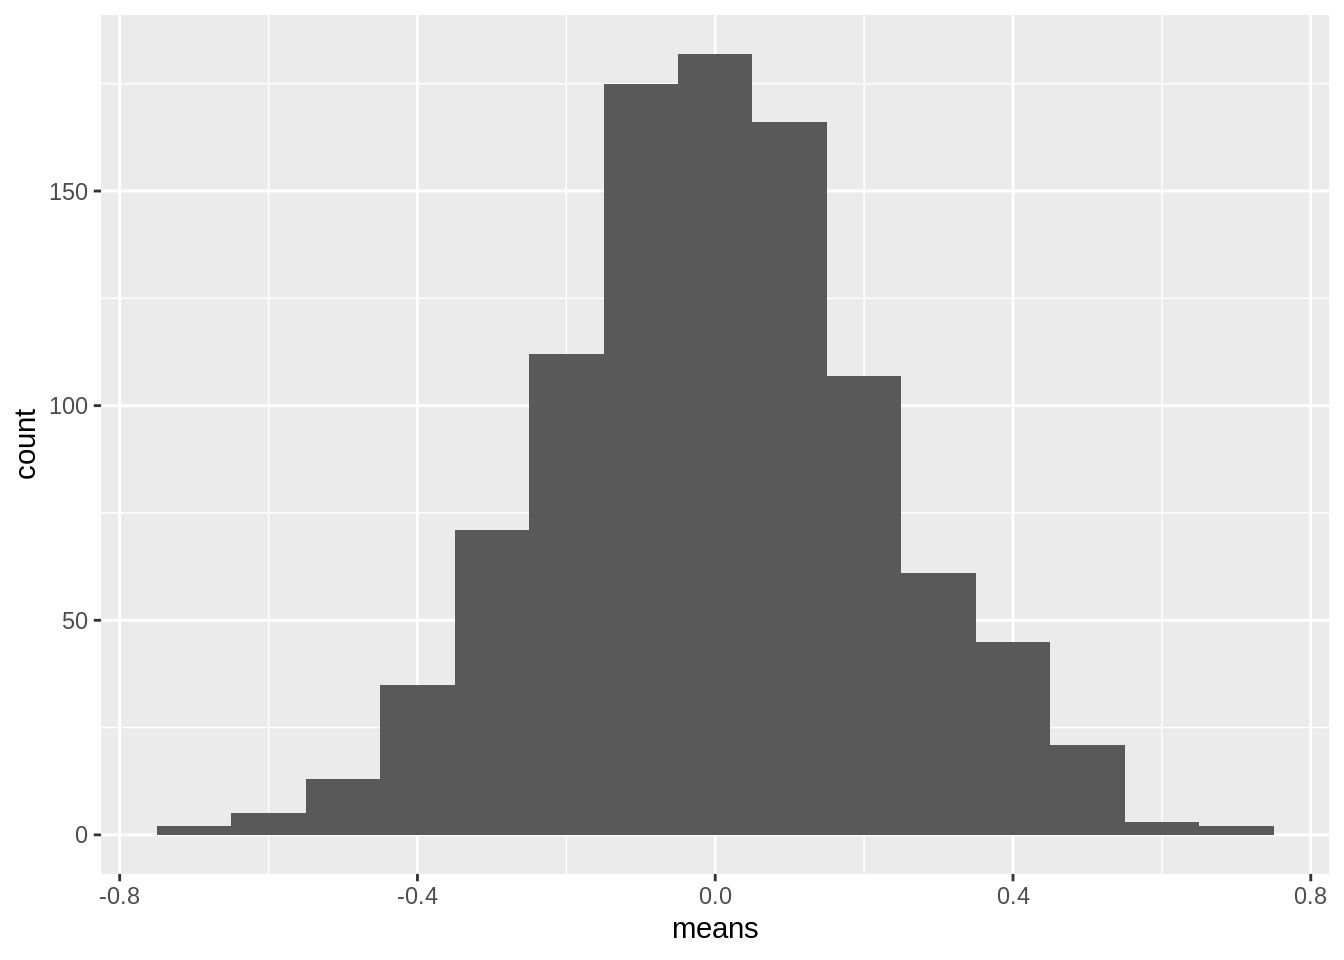
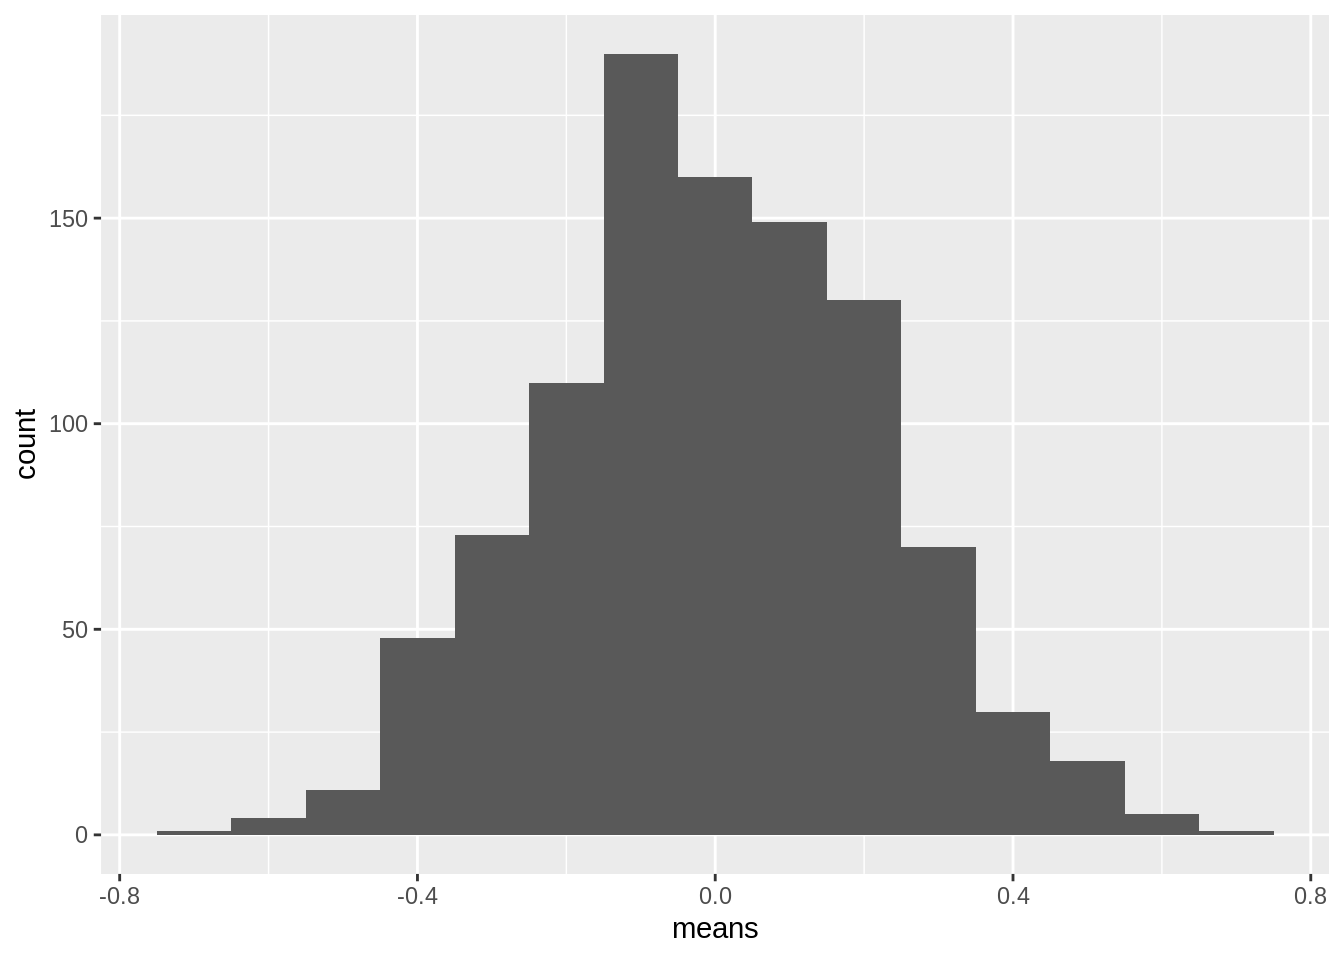
Add draft status to fdr post

diff --git a/public/post/2019-08-07-write-scientific-paper-in-markdown/index.html b/public/post/2019-08-07-write-scientific-paper-in-markdown/index.html
@@ -28,7 +28,7 @@
   
     
   
-  <meta name="description" content="Introduction If you have ever written a scientific paper in MS Word (or any other word processing software) then you&rsquo;re probably experienced frustrations like me: Word constantly crashing when loaded with too many high-resolution figures, citations getting messed up when working with others that use different citation managers, or hard to keep track of hundreds of versions of the draft, etc.
+  <meta name="description" content="Write scientific paper in markdown Introduction If you have ever written a scientific paper in MS Word (or any other word processing software) then you&rsquo;re probably experienced frustrations like me: Word constantly crashing when loaded with too many high-resolution figures, citations getting messed up when working with others that use different citation managers, or hard to keep track of hundreds of versions of the draft, etc.
 Of course, Latex is always an excellent solution to all those problems.">
 
   
@@ -138,7 +138,7 @@ Of course, Latex is always an excellent solution to all those problems.">
   <meta property="og:site_name" content="Academic">
   <meta property="og:url" content="/post/2019-08-07-write-scientific-paper-in-markdown/">
   <meta property="og:title" content="Write scientific paper in markdown | Academic">
-  <meta property="og:description" content="Introduction If you have ever written a scientific paper in MS Word (or any other word processing software) then you&rsquo;re probably experienced frustrations like me: Word constantly crashing when loaded with too many high-resolution figures, citations getting messed up when working with others that use different citation managers, or hard to keep track of hundreds of versions of the draft, etc.
+  <meta property="og:description" content="Write scientific paper in markdown Introduction If you have ever written a scientific paper in MS Word (or any other word processing software) then you&rsquo;re probably experienced frustrations like me: Word constantly crashing when loaded with too many high-resolution figures, citations getting messed up when working with others that use different citation managers, or hard to keep track of hundreds of versions of the draft, etc.
 Of course, Latex is always an excellent solution to all those problems."><meta property="og:image" content="/img/icon-192.png">
   <meta property="og:locale" content="en-us">
   
@@ -345,7 +345,7 @@ Of course, Latex is always an excellent solution to all those problems."><meta p
   
   <span class="middot-divider"></span>
   <span class="article-reading-time">
-    2 min read
+    4 min read
   </span>
   
 
@@ -426,7 +426,9 @@ Of course, Latex is always an excellent solution to all those problems."><meta p
     <div class="article-style" itemprop="articleBody">
       
 
-<h1 id="introduction">Introduction</h1>
+<h1 id="write-scientific-paper-in-markdown">Write scientific paper in markdown</h1>
+
+<h2 id="introduction">Introduction</h2>
 
 <p>If you have ever written a scientific paper in MS Word (or any other word processing software) then you&rsquo;re probably experienced frustrations like me: Word constantly crashing when loaded with too many high-resolution figures, citations getting messed up when working with others that use different citation managers, or hard to keep track of hundreds of versions of the draft, etc.</p>
 
@@ -436,13 +438,110 @@ Of course, Latex is always an excellent solution to all those problems."><meta p
 
 <p>That led me to think: markdown is a fantastic format that is both intuitive and powerful. Why not write in markdown? After a short search, I&rsquo;m happy to report that this is indeed possible!</p>
 
-<h1 id="what-does-writing-a-scientific-paper-require">What does writing a scientific paper require?</h1>
+<h2 id="what-does-writing-a-scientific-paper-require">What does writing a scientific paper require?</h2>
 
 <p>Content aside, to write a scientific paper efficiently, one needs at least the following elements:</p>
 
 <ol>
-<li>Easy way to insert and manage</li>
+<li>Easy way to insert and manage citations.</li>
+<li>Easy way to insert and manage high resolution figures</li>
+<li>Easy way to format tables</li>
+<li>Can be converted to other formats (pdf, html, etc)</li>
+<li>Allows collaborative writing</li>
 </ol>
+
+<p>Atom is an excellent text editor that with packages can do almost all of the above!</p>
+
+<h2 id="required-software-and-packages">Required software and packages</h2>
+
+<ul>
+<li><p><a href="https://atom.io/" target="_blank">Atom</a></p>
+
+<ul>
+<li><a href="https://atom.io/packages/markdown-preview-enhanced" target="_blank">markdown-preview-enhanced</a></li>
+<li><a href="https://atom.io/packages/zotero-citations" target="_blank">zotero-citations</a></li>
+</ul></li>
+
+<li><p><a href="https://pandoc.org/" target="_blank">Pandoc</a></p></li>
+
+<li><p><a href="https://www.latex-project.org/get/" target="_blank">A Tex distribution for your OS</a> (I used Tex Live for my linux system)</p></li>
+
+<li><p><a href="https://www.zotero.org/" target="_blank">Zotero citation manager</a></p>
+
+<ul>
+<li><a href="https://retorque.re/zotero-better-bibtex/installation/" target="_blank">Bbibtex Add-on</a></li>
+</ul></li>
+</ul>
+
+<p>Once you have all required packages installed, it&rsquo;s time to start writing!</p>
+
+<h2 id="write-a-paper">Write a paper</h2>
+
+<p>Writing a paper in markdown is as easy as it sounds: use <code>#</code> for titles and subtitles, use <code>|</code> to format a table, among other things.</p>
+
+<h3 id="write-math-equations">Write math equations</h3>
+
+<p>You can use Latex syntax to write a math equation, like so:</p>
+
+<pre><code>$f_A^2+2f_Af_B+f_B^2=1$
+</code></pre>
+
+<p>$f_A^2+2f_Af_B+f_B^2=1$</p>
+
+<h3 id="import-figures">Import figures:</h3>
+
+<p>The way you would import a figure is a little different from the standard markdown way:</p>
+
+<pre><code>@import &quot;figure.png&quot;
+</code></pre>
+
+<p>Would import the figure at current location. You can even further configure the figure like so:</p>
+
+<pre><code>@import &quot;figure.png&quot; {width=&quot;300px&quot; height=&quot;200px&quot; title=&quot;my title&quot; alt=&quot;my alt&quot;}
+</code></pre>
+
+<h3 id="insert-citations">Insert citations:</h3>
+
+<p>In order to insert a citation, you need to have zotero open. With zotero open, you can call up zotero citation picker by either pressing <code>ctrl</code> + <code>alt</code> + <code>P</code> or pressing <code>ctrl</code> + <code>shift</code> + <code>P</code> to call up the command palate and search for &ldquo;zotero citations: pick&rdquo;. In the citation picker window like below: <img src="/img/zotero_picker.png" alt="" /></p>
+
+<p>type in the reference you wish to insert and hit <code>enter</code>. A string of citation key should appear in your document:</p>
+
+<pre><code>@bryoisEvaluationChromatinAccessibility2018
+</code></pre>
+
+<p>Surround this reference key with <code>[]</code> and you&rsquo;re good to go! Once you export this document to a pdf, word, or html format, the reference will be automatically appended to the end of your document and the ref key will be replaced with corresponding references, like so: <img src="/img/citation_eg.png" alt="" /></p>
+
+<p>To add multiple citations, use <code>;</code> to separate ref keys, like so:</p>
+
+<pre><code>[@bintuSuperresolutionChromatinTracing2018; @bryoisEvaluationChromatinAccessibility2018]
+</code></pre>
+
+<p>Lastly, in order for pandoc to render citations correctly, you must provide a <code>bib</code> file that contains all your citations and their corresponding ref keys.</p>
+
+<p>To do this, head on to zotero and click <code>File</code> -&gt; <code>Export library</code>, in the format section, choose <code>Better Bibtex</code>. If you want the exported library up to date with your zotero library, check <code>Keep updated</code>. Once you have the exported library, add yaml frontmatter to the beginning of your document, like so:</p>
+
+<pre><code>---
+bibliography: My Library.bib
+---
+</code></pre>
+
+<h3 id="export-to-other-formats">Export to other formats</h3>
+
+<p>With pandoc, you can easily convert the markdown format to other text formats like pdf, word, and tex. To do this, first add <code>output: word_document</code> to your document&rsquo;s frontmatter, like so:</p>
+
+<pre><code>---
+bibliography: My Library.bib
+output: word_document
+---
+</code></pre>
+
+<p>and then you can right clock on the preview panel on the right to export the document through pandoc: <img src="/img/pandoc_right_click.png" alt="" /> This will output your document to a Word document. To output to PDF, simple change the value of <code>output</code> in frontmatter to <code>pdf_document</code>.</p>
+
+<h3 id="conclusion">Conclusion</h3>
+
+<p>Markdown is an incredibly intuitive text format and yet still versatile and powerful enough for productive writing. It has recently surged to new favorite of many among developers, scientists, and journalists. It will certainly keep raising in popularity due to its friendliness and expandability.</p>
+
+<p>Writing a scientific document in markdown has freed me of many frustrations caused by Word and with incredible <code>pandoc</code>, I never have to wrestle with any of my collaborators over which text editor we are to use. It has been a life saver!</p>
 
     </div>
 

diff --git a/public/post/fdr-correction/index.html b/public/post/fdr-correction/index.html
@@ -345,7 +345,7 @@ An example - Are you being cheated? Imagine that you’re playing a game where t
   
   <span class="middot-divider"></span>
   <span class="article-reading-time">
-    4 min read
+    5 min read
   </span>
   
 
@@ -455,10 +455,10 @@ An example - Are you being cheated? Imagine that you’re playing a game where t
 <p>In the coin flip example, if we record 1 everytime we get a head and -1 everytime we get a tail, after many times of flips, we would expect to get a mean score of 0. Let’s simulate this process in R:</p>
 <pre class="r"><code>flips = sample(c(-1,1), 20, replace = TRUE, prob = c(0.5, 0.5))
 flips</code></pre>
-<pre><code>##  [1]  1  1  1 -1  1 -1  1 -1 -1 -1 -1 -1  1  1 -1  1 -1 -1 -1  1</code></pre>
+<pre><code>##  [1] -1 -1  1 -1 -1 -1 -1  1 -1 -1 -1 -1  1  1 -1  1  1 -1 -1 -1</code></pre>
 <p>In the above code, by setting <code>prob=c(0.5, 0.5)</code>, we’re saying this is a fair coin. Now let’s see what the mean we got from this simulation is:</p>
 <pre class="r"><code>mean(flips)</code></pre>
-<pre><code>## [1] -0.1</code></pre>
+<pre><code>## [1] -0.4</code></pre>
 <p>It’s not 0 as we expected it to be, even though we know we’re flipping a fair coin!
 Now you probably know this is normal - The probability of getting 9 heads out of 20 flips is <span class="math inline">\(P_{9/20}=C_{20}^9(\frac{1}{2})^9(\frac{1}{2})^{11}=16%\)</span>, not a very low chance at all! This is called sampling variablity.</p>
 <p>Therefore, just because observed data isn’t identical to our expected data, doesn’t mean we should reject our null hypothesis. Now how can we make this decision then?</p>
@@ -470,7 +470,7 @@ for (i in c(1:1000))
 }
 ggplot(data.frame(means)) + geom_histogram(aes(x=means), binwidth = 0.1)</code></pre>
 <p><img src="/post/2019-07-11-fdr-correction_files/figure-html/unnamed-chunk-4-1.png" width="672" /></p>
-<p>It looks like a normal distribution (sort of)! This tells us that if we do the same experiment over and over again, the mean should be follow a normal distribution and the majority of results should be near where the mean of this normal distribution (<span class="math inline">\(\mu=0\)</span>) is. Is it possible that we get a mean of 0.6 from a fair coin? <strong>Yes, possible but not likely!</strong></p>
+<p>It looks like a normal distribution (sort of)! This tells us that if we do the same experiment over and over again, the mean should follow a normal distribution and the majority of results should be near where the mean of this normal distribution (<span class="math inline">\(\mu=0\)</span>) is. Is it possible that we get a mean of 0.6 from a fair coin? <strong>Yes, possible but not likely!</strong></p>
 <p>Of course, in reality we normally only run an experiment once and therefore, won’t get a distribution of means. But intuitively, we know if our mean is too far away from the center of this normal distribution, our true mean is probably not 0!</p>
 <p>In practice, we compare our sample mean to a <em>t</em>-distribution. This is because our sample size is relatively small (20 flips) and there is some deviation from normal distribution when we calculate mean based on a small sample size. The shape of a <em>t</em>-distribution depends on sample size, or degree of freedom (df):</p>
 <pre class="r"><code>x &lt;- seq(-4, 4, length=100)
@@ -490,6 +490,22 @@ for (i in 1:4){
 legend(&quot;topright&quot;, inset=.05, title=&quot;Distributions&quot;,
   labels, lwd=2, lty=c(1, 1, 1, 1, 2), col=colors)</code></pre>
 <p><img src="/post/2019-07-11-fdr-correction_files/figure-html/unnamed-chunk-5-1.png" width="672" /></p>
+<p>For our data from coin flips, we can perform a t-test, with the null hypothesis being that the true mean is zero:</p>
+<pre class="r"><code>t.test(flips, mu = 0)</code></pre>
+<pre><code>## 
+##  One Sample t-test
+## 
+## data:  flips
+## t = -1.9024, df = 19, p-value = 0.07239
+## alternative hypothesis: true mean is not equal to 0
+## 95 percent confidence interval:
+##  -0.8400855  0.0400855
+## sample estimates:
+## mean of x 
+##      -0.4</code></pre>
+<p>In the above output, we can see the result of the t-test: the p-value is 1. This means that if we assume null hypothesis (<span class="math inline">\(\mu=0\)</span>), we can expect to see our data or more extreme with a probability of 1. This is as high as it gets, meaning we are very confident that we have a fair coin (as we know).</p>
+<p>Now what if the coin is slightly unbalanced?
+Let’s say</p>
 </div>
 </div>
 

diff --git a/content/post/2019-07-11-fdr-correction.html b/content/post/2019-07-11-fdr-correction.html
@@ -12,6 +12,7 @@ tags:
 image:
   caption: ''
   focal_point: ''
+draft: true
 ---
 
 
@@ -33,10 +34,10 @@ image:
 <p>In the coin flip example, if we record 1 everytime we get a head and -1 everytime we get a tail, after many times of flips, we would expect to get a mean score of 0. Let’s simulate this process in R:</p>
 <pre class="r"><code>flips = sample(c(-1,1), 20, replace = TRUE, prob = c(0.5, 0.5))
 flips</code></pre>
-<pre><code>##  [1]  1  1  1 -1  1 -1  1 -1 -1 -1 -1 -1  1  1 -1  1 -1 -1 -1  1</code></pre>
+<pre><code>##  [1] -1 -1  1 -1 -1 -1 -1  1 -1 -1 -1 -1  1  1 -1  1  1 -1 -1 -1</code></pre>
 <p>In the above code, by setting <code>prob=c(0.5, 0.5)</code>, we’re saying this is a fair coin. Now let’s see what the mean we got from this simulation is:</p>
 <pre class="r"><code>mean(flips)</code></pre>
-<pre><code>## [1] -0.1</code></pre>
+<pre><code>## [1] -0.4</code></pre>
 <p>It’s not 0 as we expected it to be, even though we know we’re flipping a fair coin!
 Now you probably know this is normal - The probability of getting 9 heads out of 20 flips is <span class="math inline">\(P_{9/20}=C_{20}^9(\frac{1}{2})^9(\frac{1}{2})^{11}=16%\)</span>, not a very low chance at all! This is called sampling variablity.</p>
 <p>Therefore, just because observed data isn’t identical to our expected data, doesn’t mean we should reject our null hypothesis. Now how can we make this decision then?</p>
@@ -48,7 +49,7 @@ for (i in c(1:1000))
 }
 ggplot(data.frame(means)) + geom_histogram(aes(x=means), binwidth = 0.1)</code></pre>
 <p><img src="/post/2019-07-11-fdr-correction_files/figure-html/unnamed-chunk-4-1.png" width="672" /></p>
-<p>It looks like a normal distribution (sort of)! This tells us that if we do the same experiment over and over again, the mean should be follow a normal distribution and the majority of results should be near where the mean of this normal distribution (<span class="math inline">\(\mu=0\)</span>) is. Is it possible that we get a mean of 0.6 from a fair coin? <strong>Yes, possible but not likely!</strong></p>
+<p>It looks like a normal distribution (sort of)! This tells us that if we do the same experiment over and over again, the mean should follow a normal distribution and the majority of results should be near where the mean of this normal distribution (<span class="math inline">\(\mu=0\)</span>) is. Is it possible that we get a mean of 0.6 from a fair coin? <strong>Yes, possible but not likely!</strong></p>
 <p>Of course, in reality we normally only run an experiment once and therefore, won’t get a distribution of means. But intuitively, we know if our mean is too far away from the center of this normal distribution, our true mean is probably not 0!</p>
 <p>In practice, we compare our sample mean to a <em>t</em>-distribution. This is because our sample size is relatively small (20 flips) and there is some deviation from normal distribution when we calculate mean based on a small sample size. The shape of a <em>t</em>-distribution depends on sample size, or degree of freedom (df):</p>
 <pre class="r"><code>x &lt;- seq(-4, 4, length=100)
@@ -68,5 +69,21 @@ for (i in 1:4){
 legend(&quot;topright&quot;, inset=.05, title=&quot;Distributions&quot;,
   labels, lwd=2, lty=c(1, 1, 1, 1, 2), col=colors)</code></pre>
 <p><img src="/post/2019-07-11-fdr-correction_files/figure-html/unnamed-chunk-5-1.png" width="672" /></p>
+<p>For our data from coin flips, we can perform a t-test, with the null hypothesis being that the true mean is zero:</p>
+<pre class="r"><code>t.test(flips, mu = 0)</code></pre>
+<pre><code>## 
+##  One Sample t-test
+## 
+## data:  flips
+## t = -1.9024, df = 19, p-value = 0.07239
+## alternative hypothesis: true mean is not equal to 0
+## 95 percent confidence interval:
+##  -0.8400855  0.0400855
+## sample estimates:
+## mean of x 
+##      -0.4</code></pre>
+<p>In the above output, we can see the result of the t-test: the p-value is 1. This means that if we assume null hypothesis (<span class="math inline">\(\mu=0\)</span>), we can expect to see our data or more extreme with a probability of 1. This is as high as it gets, meaning we are very confident that we have a fair coin (as we know).</p>
+<p>Now what if the coin is slightly unbalanced?
+Let’s say</p>
 </div>
 </div>

diff --git a/public/index.html b/public/index.html
@@ -693,7 +693,7 @@
 
     
     <div class="article-style" itemprop="articleBody">
-      Introduction If you have ever written a scientific paper in MS Word (or any other word processing software) then you&rsquo;re probably …
+      Write scientific paper in markdown Introduction If you have ever written a scientific paper in MS Word (or any other word processing …
     </div>
     
 
@@ -729,7 +729,7 @@
   
   <span class="middot-divider"></span>
   <span class="article-reading-time">
-    2 min read
+    4 min read
   </span>
   
 
@@ -819,7 +819,7 @@
   
   <span class="middot-divider"></span>
   <span class="article-reading-time">
-    4 min read
+    5 min read
   </span>
   
 

diff --git a/public/post/index.html b/public/post/index.html
@@ -351,7 +351,7 @@
 
     
     <div class="article-style" itemprop="articleBody">
-      Introduction If you have ever written a scientific paper in MS Word (or any other word processing software) then you&rsquo;re probably …
+      Write scientific paper in markdown Introduction If you have ever written a scientific paper in MS Word (or any other word processing …
     </div>
     
 
@@ -387,7 +387,7 @@
   
   <span class="middot-divider"></span>
   <span class="article-reading-time">
-    2 min read
+    4 min read
   </span>
   
 
@@ -477,7 +477,7 @@
   
   <span class="middot-divider"></span>
   <span class="article-reading-time">
-    4 min read
+    5 min read
   </span>
   
 
